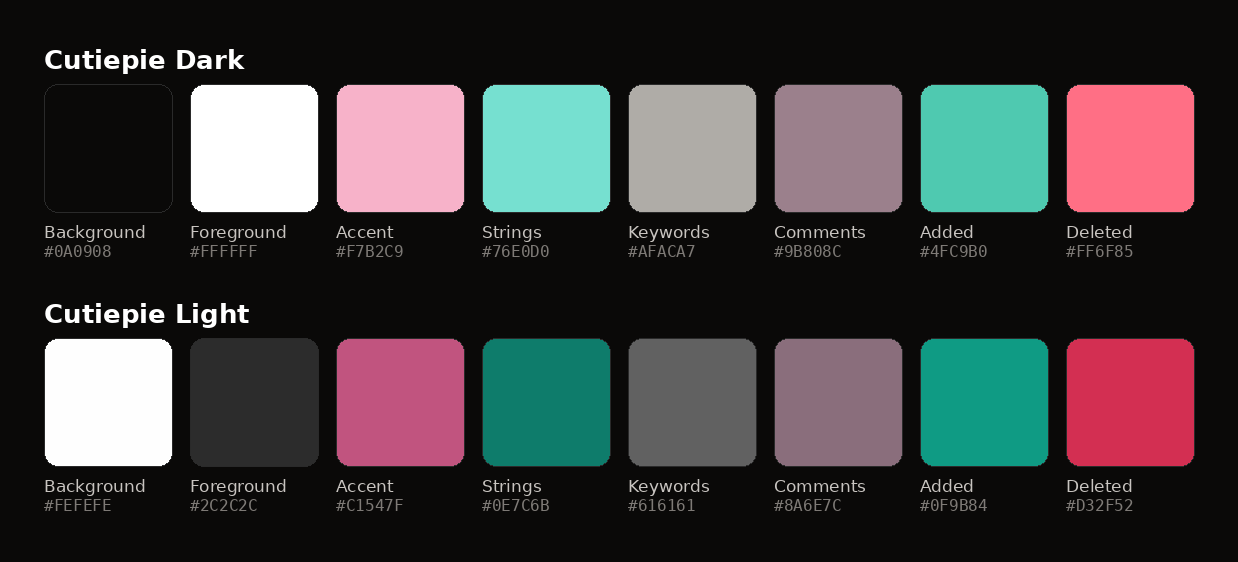
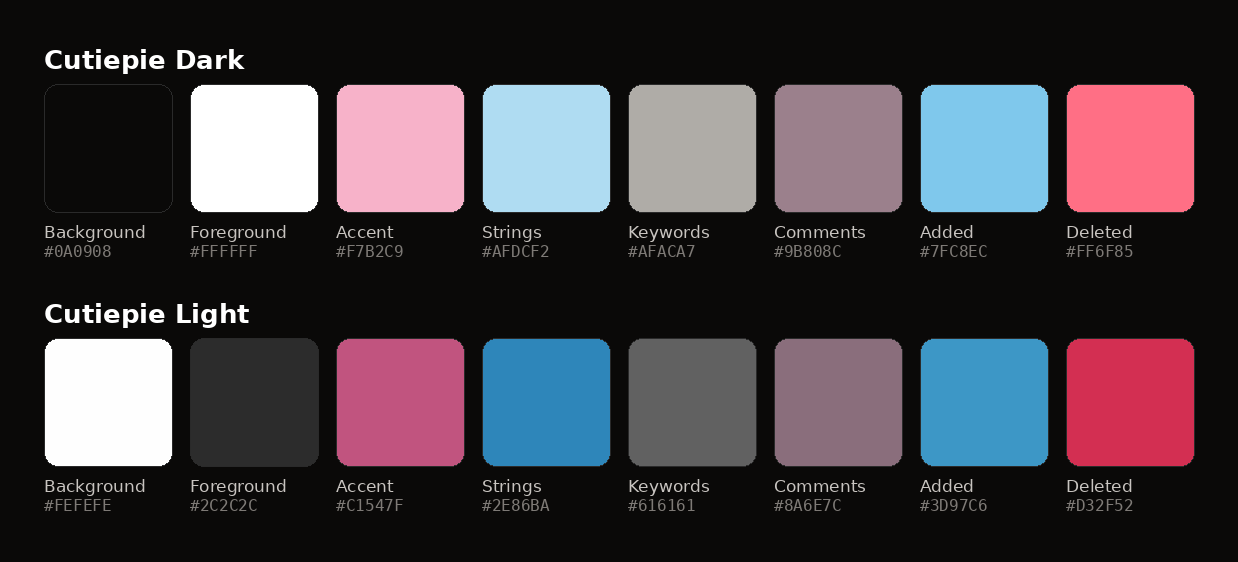
Cutiepie 1.1.0 — pale sky blue replaces turquoise
The second accent moves to #AFDCF2 (dark) / #2E86BA (light), carrying strings,
interfaces and readonly properties. Git and diff "added" follow it, and terminal
ANSI blue shifts to periwinkle so it no longer collides with the string colour.

The icon is now generated from the dark theme by scripts/render_logo.py instead
of being hand-authored, so it tracks the palette like the other assets.

diff --git a/scripts/render_logo.py b/scripts/render_logo.py
@@ -1,0 +1,72 @@
+#!/usr/bin/env python3
+"""
+Render logo.png — a heart fading from the theme's pink accent to its string
+colour, on the theme background. Colours are read from the dark theme so the
+icon always matches what ships.
+
+    python3 scripts/render_logo.py
+"""
+import json
+import math
+from pathlib import Path
+
+from PIL import Image, ImageDraw, ImageFilter
+
+ROOT = Path(__file__).resolve().parent.parent
+SIZE, SS = 256, 4                  # final size, supersample factor
+W = SIZE * SS
+
+
+def theme_colours():
+    theme = json.loads((ROOT / "themes" / "cutiepie-dark-color-theme.json").read_text())
+    tokens = {t["name"]: t["settings"] for t in theme["tokenColors"]}
+    accent = tokens["Function, Special Method"]["foreground"]
+    string = tokens["String, Symbols, Inherited Class"]["foreground"]
+    bg = theme["colors"]["editor.background"][:7]
+    to_rgb = lambda h: tuple(int(h[i:i + 2], 16) for i in (1, 3, 5))
+    return to_rgb(accent), to_rgb(string), to_rgb(bg)
+
+
+def heart_point(t):
+    """Parametric heart, normalised into a 0..1 box."""
+    x = 16 * math.sin(t) ** 3
+    y = 13 * math.cos(t) - 5 * math.cos(2 * t) - 2 * math.cos(3 * t) - math.cos(4 * t)
+    return x / 17.0, -y / 17.0     # flip y for image coords
+
+
+def main():
+    top, bottom, bg = theme_colours()
+
+    mask = Image.new("L", (W, W), 0)
+    pts = []
+    for i in range(720):
+        hx, hy = heart_point(i * math.pi / 360)
+        pts.append((W / 2 + hx * W * 0.40, W / 2 + hy * W * 0.40))
+    ImageDraw.Draw(mask).polygon(pts, fill=255)
+
+    grad = Image.new("RGB", (1, W))
+    for y in range(W):
+        f = y / (W - 1)
+        f = f * f * (3 - 2 * f)                     # smoothstep for a softer blend
+        grad.putpixel((0, y), tuple(round(top[c] + (bottom[c] - top[c]) * f) for c in range(3)))
+    grad = grad.resize((W, W))
+
+    # soft glow so the heart reads against the dark square
+    glow = mask.filter(ImageFilter.GaussianBlur(W // 22)).point(lambda v: int(v * 0.38))
+
+    img = Image.new("RGB", (W, W), bg)
+    img.paste(grad, (0, 0), glow)
+    img.paste(grad, (0, 0), mask)
+
+    card = Image.new("L", (W, W), 0)
+    ImageDraw.Draw(card).rounded_rectangle([0, 0, W - 1, W - 1], radius=W // 6, fill=255)
+    out = Image.new("RGBA", (W, W), (0, 0, 0, 0))
+    out.paste(img, (0, 0), card)
+
+    dest = ROOT / "logo.png"
+    out.resize((SIZE, SIZE), Image.LANCZOS).save(dest)
+    print(f"wrote {dest.relative_to(ROOT)}  {SIZE}x{SIZE}")
+
+
+if __name__ == "__main__":
+    main()

diff --git a/scripts/render_previews.py b/scripts/render_previews.py
@@ -53,7 +53,7 @@ def sample_lines(theme):
         [],
         [("class", kw, 0), (" ", pun, 0), ("Cutiepie", cls, 0), (" ", pun, 0), ("{", pun, 0)],
         [("  ", pun, 0), ("readonly", kw, 0), (" pink ", var, 0), ("= ", pun, 0), ('"#F7B2C9"', string, 0)],
-        [("  ", pun, 0), ("readonly", kw, 0), (" turquoise ", var, 0), ("= ", pun, 0), ('"#76E0D0"', string, 0)],
+        [("  ", pun, 0), ("readonly", kw, 0), (" paleBlue ", var, 0), ("= ", pun, 0), ('"#AFDCF2"', string, 0)],
         [("  ", pun, 0), ("readonly", kw, 0), (" loveLevel ", var, 0), ("= ", pun, 0), ("9001", num, 0)],
         [("}", pun, 0)],
         [],
@@ -65,7 +65,7 @@ def sample_lines(theme):
         [("  ", pun, 0), ("expect", fn, 0), ("(theme).", pun, 0), ("toContain", fn, 0),
          ("(", pun, 0), ('"powder pink"', string, 0), (")", pun, 0)],
         [("  ", pun, 0), ("expect", fn, 0), ("(theme).", pun, 0), ("toContain", fn, 0),
-         ("(", pun, 0), ('"turquoise"', string, 0), (")", pun, 0)],
+         ("(", pun, 0), ('"pale sky blue"', string, 0), (")", pun, 0)],
         [("  ", pun, 0), ("expect", fn, 0), ("(theme).", pun, 0), ("not", kw, 0), (".", pun, 0),
          ("toContain", fn, 0), ("(", pun, 0), ('"golden"', string, 0), (")", pun, 0)],
         [("  ", pun, 0), ("expect", fn, 0), ("(theme.loveLevel).", pun, 0),

diff --git a/README.md b/README.md
@@ -4,10 +4,10 @@
 
 # Cutiepie
 
-**A soft VS Code theme in powder pink and turquoise on true black.**
+**A soft VS Code theme in powder pink and pale sky blue on true black.**
 
 Two accents and nothing else. Pink carries structure — functions, classes, tags, keys.
-Turquoise carries content — strings. Everything else is greyscale.
+Pale sky blue carries content — strings. Everything else is greyscale.
 
 [![License: MIT](https://img.shields.io/badge/license-MIT-F7B2C9?labelColor=0A0908&style=flat-square)](LICENSE)
 
@@ -38,7 +38,7 @@ Then <kbd>Ctrl</kbd>+<kbd>K</kbd> <kbd>Ctrl</kbd>+<kbd>T</kbd> → **Cutiepie Da
 git clone https://github.com/adityasasidhar/cutiepie.git
 cd cutiepie
 npm install && npx vsce package
-code --install-extension cutiepie-1.0.0.vsix
+code --install-extension cutiepie-1.1.0.vsix
 ```
 
 </details>
@@ -52,20 +52,21 @@ code --install-extension cutiepie-1.0.0.vsix
 | Background | `#0A0908` | `#FEFEFE` |
 | Foreground | `#FFFFFF` | `#2C2C2C` |
 | **Accent** — functions, classes, tags, JSON keys, cursor, buttons | `#F7B2C9` | `#C1547F` |
-| **Strings** — strings, interfaces, readonly props | `#76E0D0` | `#0E7C6B` |
+| **Strings** — strings, interfaces, readonly props | `#AFDCF2` | `#2E86BA` |
 | Keywords, operators, parameters | `#AFACA7` | `#616161` |
 | Comments *(italic)* | `#9B808C` | `#8A6E7C` |
-| Added | `#4FC9B0` | `#0F9B84` |
+| Added | `#7FC8EC` | `#3D97C6` |
 | Deleted / error | `#FF6F85` | `#D32F52` |
 | Merge conflict | `#C9A0DC` | `#8E5AA8` |
 
 Three choices worth explaining:
 
-- **Git and diff green is turquoise.** In a two-accent palette turquoise already reads as
+- **Git and diff green is blue.** In a two-accent palette the string colour already reads as
   "good" — a separate green only added a third hue.
 - **Errors stay red, but rosy.** Deliberately more saturated than the accent, so an error
   never reads as decoration.
-- **Merge conflicts are lavender.** With the warm tones gone, orange had nowhere to sit.
+- **Merge conflicts are lavender, and terminal blue is periwinkle.** With the warm tones gone
+  orange had nowhere to sit, and ANSI blue had to move so it wouldn't collide with the strings.
 
 ## Development
 
@@ -73,8 +74,8 @@ The JSON in `themes/` is the source of truth. Everything in `assets/` is generat
 so the screenshots can't drift from what ships:
 
 ```bash
-python3 scripts/render_previews.py     # assets/preview-{dark,light}.png
-python3 scripts/render_palette.py      # assets/palette.png
+npm run assets                      # assets/preview-{dark,light}.png + palette.png
+python3 scripts/render_logo.py      # logo.png
 ```
 
 ## Credits

diff --git a/CHANGELOG.md b/CHANGELOG.md
@@ -4,6 +4,18 @@ All notable changes to Cutiepie are documented here.
 The format follows [Keep a Changelog](https://keepachangelog.com/en/1.1.0/),
 and this project adheres to [Semantic Versioning](https://semver.org/spec/v2.0.0.html).
 
+## [1.1.0] — 2026-07-31
+
+### Changed
+
+- The second accent is now **pale sky blue** instead of turquoise: `#AFDCF2` in the dark
+  theme, `#2E86BA` in the light one. It carries strings, interfaces, and readonly properties.
+- Git and diff "added" colours follow it to `#7FC8EC` / `#3D97C6`.
+- Terminal ANSI blue moved to periwinkle (`#7B93F0` dark, `#3949AB` light) so it no longer
+  collides with the new string colour.
+- The icon gradient now fades pink into pale blue, and is generated from the dark theme
+  by `scripts/render_logo.py` rather than hand-authored.
+
 ## [1.0.0] — 2026-07-31
 
 ### Added
@@ -15,4 +27,5 @@ and this project adheres to [Semantic Versioning](https://semver.org/spec/v2.0.0
 - Generated preview and palette images under `assets/`, rendered directly from the
   theme files by `scripts/`.
 
+[1.1.0]: https://github.com/adityasasidhar/cutiepie/releases/tag/v1.1.0
 [1.0.0]: https://github.com/adityasasidhar/cutiepie/releases/tag/v1.0.0
